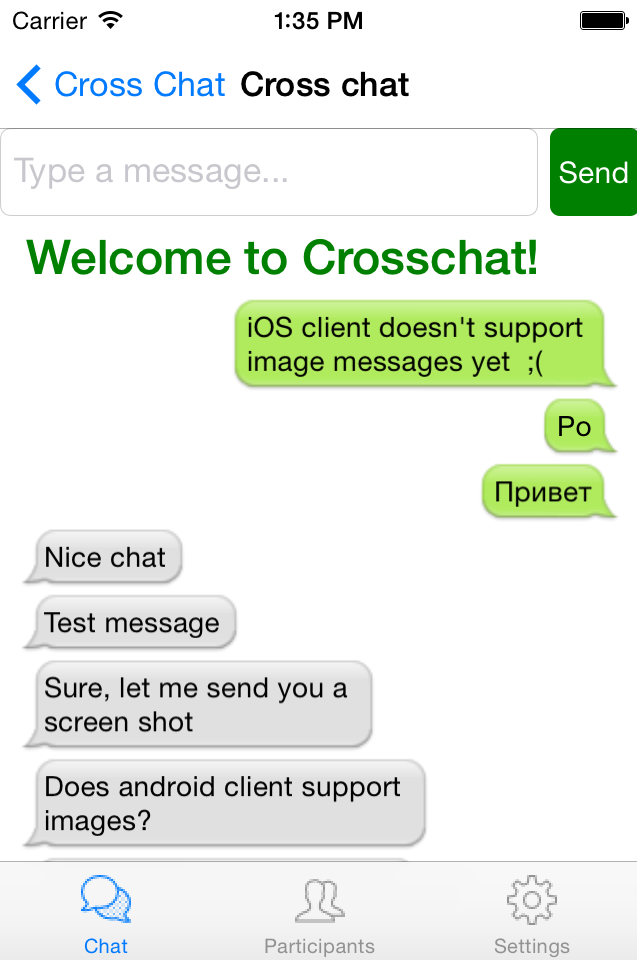
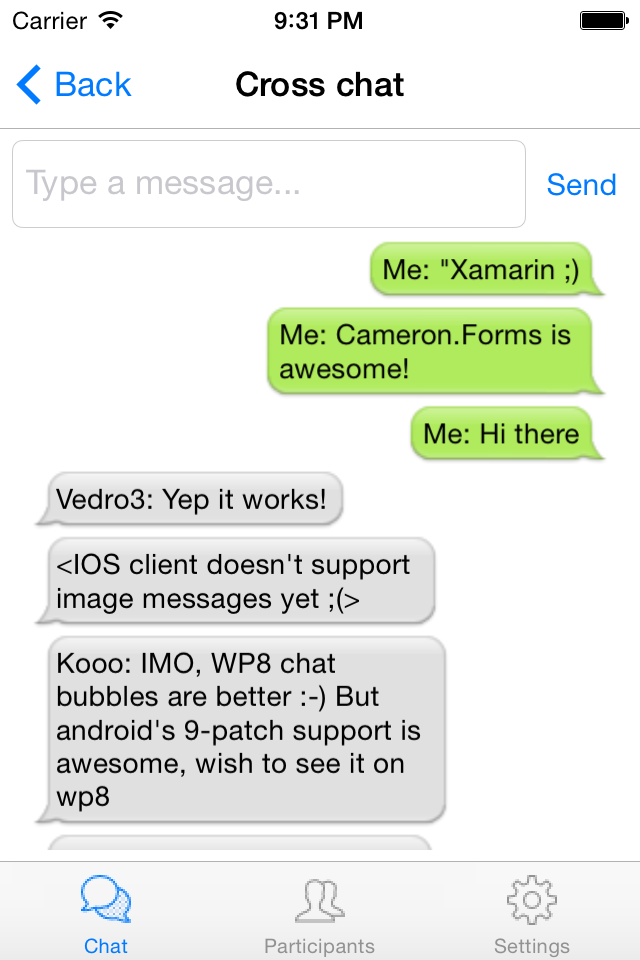
several UI improvements

diff --git a/Client/Crosschat.Client/Views/ChatPage.cs b/Client/Crosschat.Client/Views/ChatPage.cs
@@ -21,14 +21,18 @@ namespace Crosschat.Client.Views
             sendButton.Text = " Send ";
             sendButton.VerticalOptions = LayoutOptions.EndAndExpand;
             sendButton.SetBinding(Button.CommandProperty, new Binding("SendMessageCommand"));
-            sendButton.BackgroundColor = Color.Green;
-            sendButton.BorderColor = Color.Green;
-            sendButton.TextColor = Color.White;
+            if (Device.OS == TargetPlatform.WinPhone)
+            {
+                sendButton.BackgroundColor = Color.Green;
+                sendButton.BorderColor = Color.Green;
+                sendButton.TextColor = Color.White; 
+            }
 
             var inputBox = new Entry();
             inputBox.HorizontalOptions = LayoutOptions.FillAndExpand;
             inputBox.Keyboard = Keyboard.Chat;
             inputBox.Placeholder = "Type a message...";
+            inputBox.HeightRequest = 30;
             inputBox.SetBinding(Entry.TextProperty, new Binding("InputText", BindingMode.TwoWay));
 
             var messageList = new ChatListView();
@@ -38,6 +42,7 @@ namespace Crosschat.Client.Views
             
             Content = new StackLayout
                 {
+                    Padding = Device.OnPlatform(new Thickness(6,6,6,6), new Thickness(0), new Thickness(0)),
                     Children =
                         {
                             new StackLayout
@@ -46,7 +51,7 @@ namespace Crosschat.Client.Views
                                     Orientation = StackOrientation.Horizontal,
                                     Padding = new Thickness(0, Device.OnPlatform(0, 20, 0),0,0),
                                 },
-                            headerLabel,
+                            //headerLabel,
                             messageList,
                         }
                 };

diff --git a/Client/Crosschat.Client/Seedwork/Extensions/ObservableCollectionExtensions.cs b/Client/Crosschat.Client/Seedwork/Extensions/ObservableCollectionExtensions.cs
@@ -44,9 +44,13 @@ namespace Crosschat.Client.Seedwork.Extensions
             source.ForEach(item => destination.Add(creator(item)));
             source.CollectionChanged += (s, e) =>
             {
-                if (e.Action == NotifyCollectionChangedAction.Add)
+                if (e.Action == NotifyCollectionChangedAction.Add && e.NewItems != null)
                 {
-                    e.NewItems.OfType<T>().ForEach(item => destination.Insert(0, creator(item)));
+                    foreach (var item in e.NewItems.OfType<T>())
+                    {
+                        var projection = creator(item);
+                        destination.Insert(0, projection);
+                    }
                 }
                 if (e.Action == NotifyCollectionChangedAction.Remove && sourceKey != null && destKey != null)
                 {

diff --git a/Client/Crosschat.Client.iOS/CustomRenderers/MessageRenderer.cs b/Client/Crosschat.Client.iOS/CustomRenderers/MessageRenderer.cs
@@ -16,7 +16,8 @@ namespace Crosschat.Client.iOS.CustomRenderers
             var textVm = item.BindingContext as TextMessageViewModel;
             if (textVm != null)
             {
-                var chatBubble = new ChatBubble(!textVm.IsMine, textVm.Text);
+                string text = textVm.ImageId.HasValue ? "<IOS client doesn't support image messages yet ;(>" : (textVm.IsMine ? "Me" : textVm.AuthorName) + ": " + textVm.Text;
+                var chatBubble = new ChatBubble(!textVm.IsMine, text);
                 return chatBubble.GetCell(tv);
             }
             return base.GetCell(item, tv);

diff --git a/Client/Crosschat.Client/Views/SplashscreenPage.cs b/Client/Crosschat.Client/Views/SplashscreenPage.cs
@@ -15,6 +15,8 @@ namespace Crosschat.Client.Views
 
         public SplashscreenPage()
         {
+            Title = "";
+
             Content = new StackLayout
                 {
                     VerticalOptions = LayoutOptions.Center,
@@ -53,7 +55,6 @@ namespace Crosschat.Client.Views
 
             // Accomodate iPhone status bar.
             this.Padding = new Thickness(10, Device.OnPlatform(20, 0, 0), 10, 5);
-            this.Title = "Cross Chat";
         }
 
         protected override async void OnAppearing()

diff --git a/Client/Crosschat.Client/Views/RegistrationPage.cs b/Client/Crosschat.Client/Views/RegistrationPage.cs
@@ -28,7 +28,7 @@ namespace Crosschat.Client.Views
             var header = new Label
                 {
                     Text = "Registration",
-                    Font = Font.BoldSystemFontOfSize(44),
+                    Font = Font.BoldSystemFontOfSize(36),
                     HorizontalOptions = LayoutOptions.Center
                 };
 

diff --git a/Client/Crosschat.Client/Views/HomePage.cs b/Client/Crosschat.Client/Views/HomePage.cs
@@ -1,5 +1,6 @@
 using Crosschat.Client.Seedwork;
 using Crosschat.Client.Seedwork.Controls;
+using Xamarin.Forms;
 
 namespace Crosschat.Client.Views
 {
